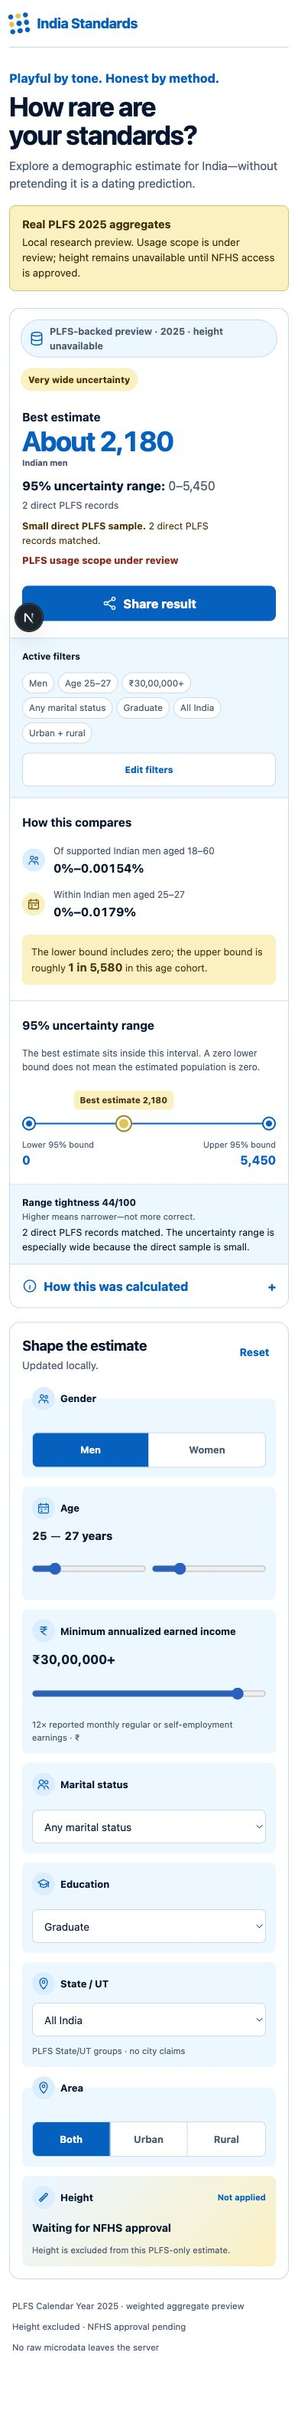
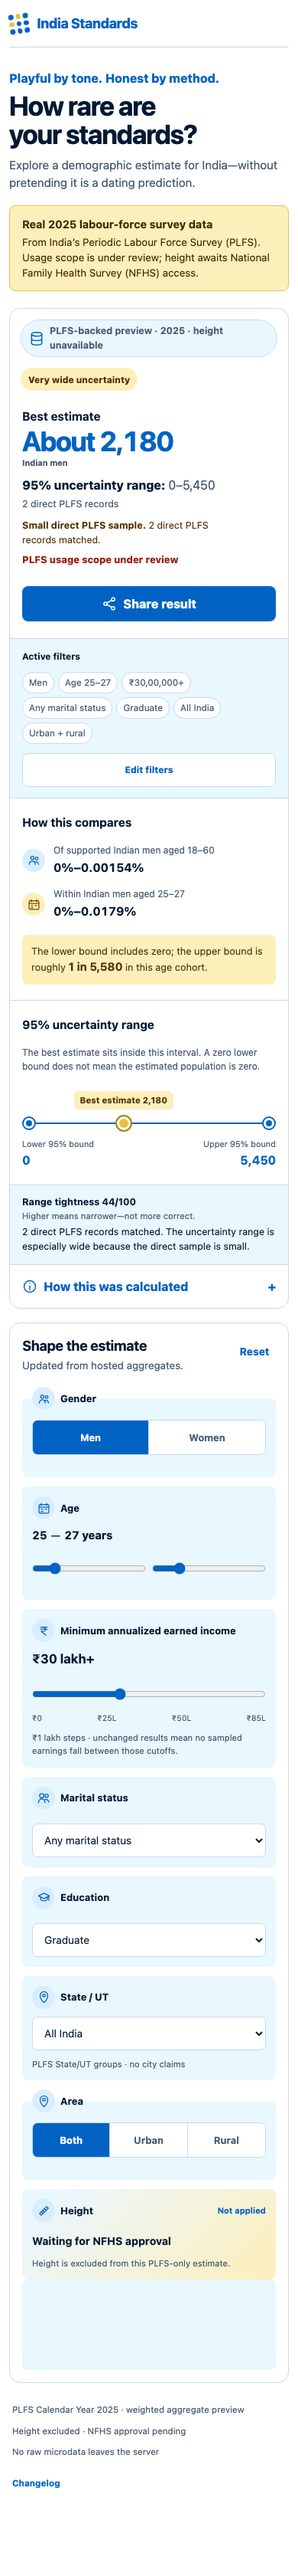
Explain shared-link recovery (#11)

Changed region(s): [[0.0308, 0.0, 0.9846, 0.9672]]

diff --git a/components/calculator.tsx b/components/calculator.tsx
@@ -96,7 +96,10 @@ function filtersToSearch(filters: EstimateFilters) {
 function filtersFromSearch(search: string) {
   const params = new URLSearchParams(search);
   if (!params.size) {
-    return { filters: DEFAULT_FILTERS, invalid: false };
+    return {
+      filters: DEFAULT_FILTERS,
+      usedFallback: false,
+    };
   }
 
   try {
@@ -113,10 +116,13 @@ function filtersFromSearch(search: string) {
         heightMin: Number(params.get("heightMin") ?? DEFAULT_FILTERS.heightMin),
         heightMax: Number(params.get("heightMax") ?? DEFAULT_FILTERS.heightMax),
       }),
-      invalid: false,
+      usedFallback: false,
     };
   } catch {
-    return { filters: DEFAULT_FILTERS, invalid: true };
+    return {
+      filters: DEFAULT_FILTERS,
+      usedFallback: true,
+    };
   }
 }
 
@@ -902,7 +908,7 @@ export function Calculator() {
   const [error, setError] = useState("");
   const [loading, setLoading] = useState(true);
   const [shareStatus, setShareStatus] = useState("");
-  const [filterNotice, setFilterNotice] = useState("");
+  const [usedSharedLinkFallback, setUsedSharedLinkFallback] = useState(false);
   const [resultInView, setResultInView] = useState(true);
   const [turnstileToken, setTurnstileToken] = useState<string | null>(null);
   const [turnstileResetSignal, setTurnstileResetSignal] = useState(0);
@@ -910,18 +916,9 @@ export function Calculator() {
   const lastAttemptedFilters = useRef("");
 
   useEffect(() => {
-    const parsed = filtersFromSearch(window.location.search);
-    setFilters(parsed.filters);
-    if (parsed.invalid) {
-      setFilterNotice(
-        "Some shared filters were invalid, so the defaults were restored.",
-      );
-    }
-  }, []);
-
-  const updateFilters = useCallback((next: EstimateFilters) => {
-    setFilterNotice("");
-    setFilters(next);
+    const initialState = filtersFromSearch(window.location.search);
+    setFilters(initialState.filters);
+    setUsedSharedLinkFallback(initialState.usedFallback);
   }, []);
 
   useEffect(() => {
@@ -1083,14 +1080,18 @@ export function Calculator() {
           </p>
         </div>
         <div className="demo-callout">
-          <strong>
-            Real Periodic Labour Force Survey (PLFS) 2025 aggregates
-          </strong>
+          <strong>Real 2025 labour-force survey data</strong>
           <span>
-            Research preview. Usage scope is under review; height remains
-            unavailable until National Family Health Survey (NFHS) access is
-            approved.
+            From India’s Periodic Labour Force Survey (PLFS). Usage scope is
+            under review; height awaits National Family Health Survey (NFHS)
+            access.
           </span>
+          {usedSharedLinkFallback && (
+            <span role="status">
+              Shared link adjusted: unsupported filters were replaced with safe
+              defaults. <a href="#filters-title">Review filters</a>.
+            </span>
+          )}
         </div>
       </section>
 

diff --git a/PROJECT_STATUS.md b/PROJECT_STATUS.md
@@ -1,6 +1,6 @@
 # India Standards — PROJECT STATUS
 
-Last updated: 2026-07-30
+Last updated: 2026-07-31
 
 ## Why / What
 
@@ -32,21 +32,9 @@ city-level estimates, dating probability, or mutual compatibility.
 
 ## Timeline
 
-- 2026-07-31: Published canonical search and social metadata for
-  `india-standards.significanthobbies.com`, including structured product data
-  and the approved calculator-workbench preview; retained
-  `india-numbers.significanthobbies.com` as a compatibility hostname.
-- 2026-07-31: Aligned the public sitemap, robots declaration, agent catalog,
-  and Markdown discovery files with the canonical
-  `india-standards.significanthobbies.com` hostname.
-- 2026-07-31: Clarified on the public calculator that selected demographic
-  filters are joined before the weighted population range is estimated.
-- 2026-07-31: Benchmarked the complete official aggregate serving cube against
-  a full-schema index-free copy. The candidate preserved all 12 table schemas,
-  row counts, and 46 deterministic estimator fixtures while reducing the local
-  DuckDB file from 55.76 MiB to 18.26 MiB. Local median, mean, and p95 latency
-  stayed within 0.5 ms across 216 samples per candidate; the current local and
-  hosted cubes remain unchanged pending direct MotherDuck latency evidence.
+- 2026-07-31: Expanded PLFS and NFHS in visible calculator copy, made malformed
+  shared-link fallback explicit with a direct filter-review action, and
+  refreshed normal and recovery evidence at 390px, 768px, and 1440px.
 - 2026-07-31: Prepared and locally verified public agent discovery for the
   aggregate-only calculator and changelog, with request-origin catalogs,
   sitemaps, robots declarations, and Markdown on both public hostnames;
